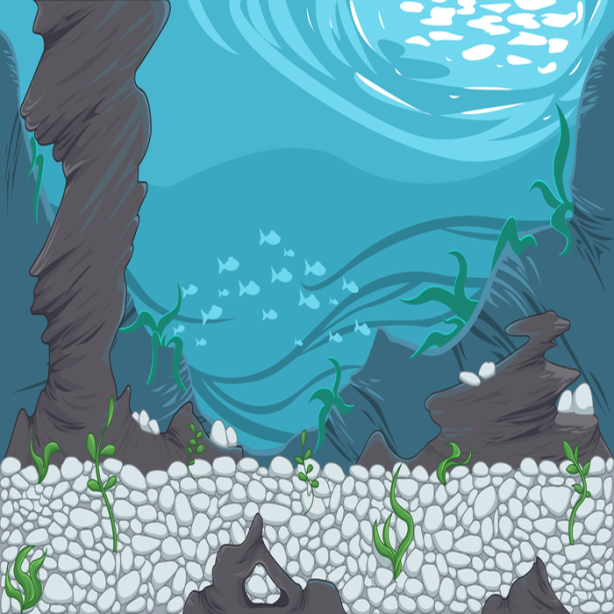
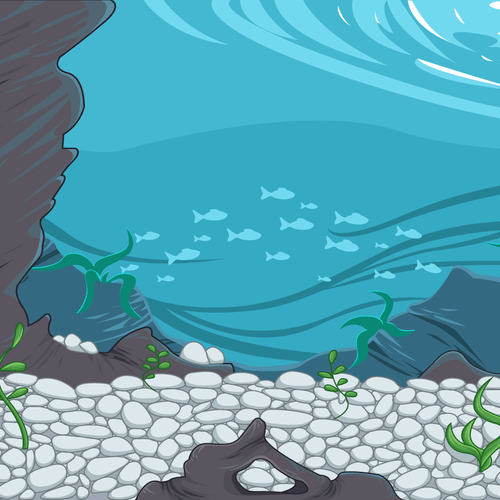
editor verbessert

diff --git a/SuperMoby/main.py b/SuperMoby/main.py
@@ -12,7 +12,7 @@ tile_size = 50
 screen = pygame.display.set_mode((SCREENWIDTH, SCREENHEIGHT))
 #screen.fill((100, 201, 207))  # 64C9CF
 pygame.display.set_caption('Super Moby')
-background = pygame.image.load(os.path.join('backgrounds', 'bbbgQUA.png'))
+background = pygame.image.load(os.path.join('backgrounds', 'probe.jpg'))
 bgX = 0  # keep track of 2 different images at certain screen to never let screen turn blank
 bgX2 = background.get_width()
 
@@ -135,25 +135,25 @@ class World():
         shell_img = pygame.image.load(os.path.join('objects2', '1.png'))
         star_img = pygame.image.load(os.path.join('objects2', '2.png'))
 
-        row_count =0
+        row_count =-1
         for row in data:
             col_count =0
             for tile in row:
-                if tile ==1:
+                if tile ==0:
                     img = pygame.transform.scale(sand_img,(tile_size, tile_size))
                     img_rect = img.get_rect() #for collision
                     img_rect.x = col_count * tile_size
                     img_rect.y = row_count * tile_size
                     tile = (img, img_rect)
                     self.tile_list.append(tile)
-                if tile == 2:
+                if tile == 1:
                     img = pygame.transform.scale(shell_img, (tile_size, tile_size))
                     img_rect = img.get_rect()  # for collision
                     img_rect.x = col_count * tile_size
                     img_rect.y = row_count * tile_size
                     tile = (img, img_rect)
                     self.tile_list.append(tile)
-                if tile == 3:
+                if tile == 2:
                     img = pygame.transform.scale(star_img, (tile_size, tile_size))
                     img_rect = img.get_rect()  # for collision
                     img_rect.x = col_count * tile_size
@@ -173,15 +173,18 @@ world_data= [
 [0,-1,-1,-1,-1,-1,-1,-1,-1,-1,-1,-1,-1,0],
 [0,-1,-1,-1,-1,-1,-1,-1,-1,-1,-1,-1,-1,0],
 [0,-1,-1,-1,-1,-1,-1,-1,-1,-1,-1,-1,-1,0],
+[1,-1,-1,-1,-1,-1,-1,-1,-1,-1,-1,-1,-1,0],
+[0,-1,-1,-1,-1,-1,-1,-1,-1,-1,-1,-1,-1,1],
+[0,-1,-1,-1,-1,-1,-1,-1,-1,-1,-1,-1,-1,2],
+[0,-1,-1,-1,-1,-1,-1,-1,-1,-1,-1,-1,-1,0],
+[0,-1,-1,-1,-1,-1,-1,-1,-1,-1,-1,-1,-1,0],
+[1,-1,-1,-1,-1,-1,-1,-1,-1,-1,-1,-1,-1,0],
 [0,-1,-1,-1,-1,-1,-1,-1,-1,-1,-1,-1,-1,0],
 [0,-1,-1,-1,-1,-1,-1,-1,-1,-1,-1,-1,-1,0],
 [0,-1,-1,-1,-1,-1,-1,-1,-1,-1,-1,-1,-1,0],
 [0,-1,-1,-1,-1,-1,-1,-1,-1,-1,-1,-1,-1,0],
 [0,-1,-1,-1,-1,-1,-1,-1,-1,-1,-1,-1,-1,0],
-[0,-1,-1,-1,-1,-1,-1,-1,-1,-1,-1,-1,-1,0],
-[0,-1,-1,-1,-1,-1,-1,-1,-1,-1,-1,-1,-1,0],
-[0,-1,-1,-1,-1,-1,-1,-1,-1,-1,-1,-1,-1,0],
-[0,-1,-1,-1,-1,-1,-1,-1,-1,-1,-1,-1,-1,0],
+[0,0,0,0,0,2,0,1,2,0,0,0,0,0],
 ]
 
 
